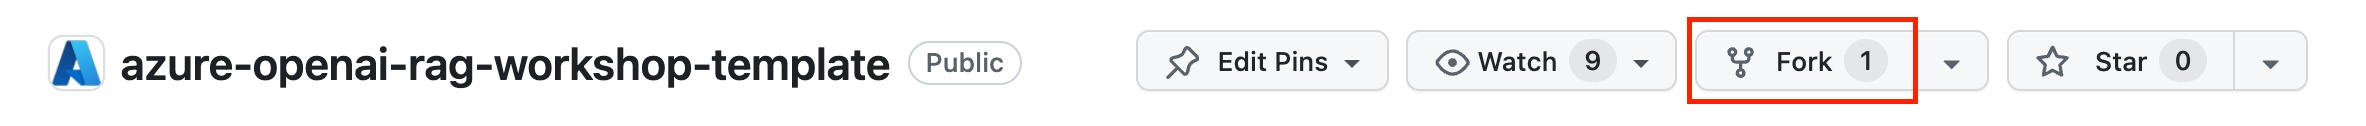
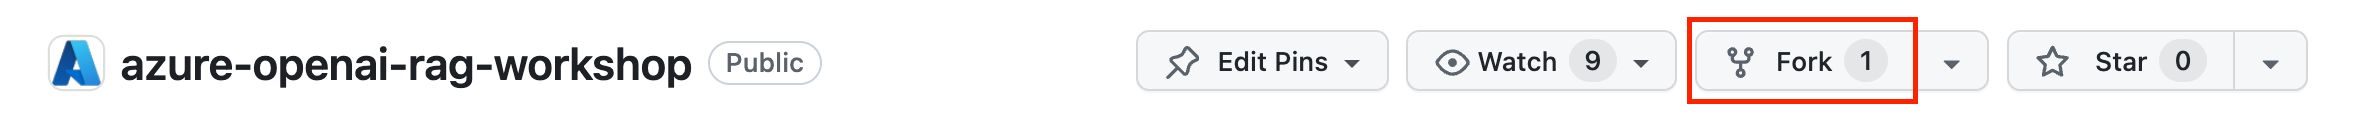
docs: update template link

Changed region(s): [[0.2777, 0.381, 0.432, 0.6905], [0.3702, 0.3095, 0.432, 0.3571], [0.3085, 0.3095, 0.3394, 0.3571]]

diff --git a/docs/workshop.md b/docs/workshop.md
@@ -121,7 +121,7 @@ Before diving into development, let's set up your project environment. This incl
 
 ### Creating your project
 
-1. Open [this GitHub repository](https://github.com/Azure-Samples/azure-openai-rag-workshop-template)
+1. Open [this GitHub repository](https://github.com/Azure-Samples/azure-openai-rag-workshop)
 2. Click the **Fork** button and click on **Create fork** to create a copy of the project in your own GitHub account.
 
 ![Screenshot of GitHub showing the Fork button](./assets/fork-project.png)
@@ -1368,7 +1368,7 @@ If you want to go further with more advanced use-cases, authentication, history 
 ### References
 
 - This workshop URL: [aka.ms/ws/openai-rag](https://aka.ms/ws/openai-rag)
-- The source repository for this workshop: [GitHub link](https://github.com/Azure-Samples/azure-openai-rag-workshop)
-- The base template for this workshop: [GitHub link](https://github.com/Azure-Samples/azure-openai-rag-workshop-template)
+- The source repository for this workshop: [GitHub link](https://github.com/Azure-Samples/azure-openai-rag-workshop/tree/base)
+- The base template for this workshop: [GitHub link](https://github.com/Azure-Samples/azure-openai-rag-workshop)
 - If something does not work: [Report an issue](https://github.com/Azure-Samples/azure-openai-rag-workshop/issues)
 - Introduction presentation for this workshop: [Slides](https://azure-samples.github.io/azure-openai-rag-workshop/)
